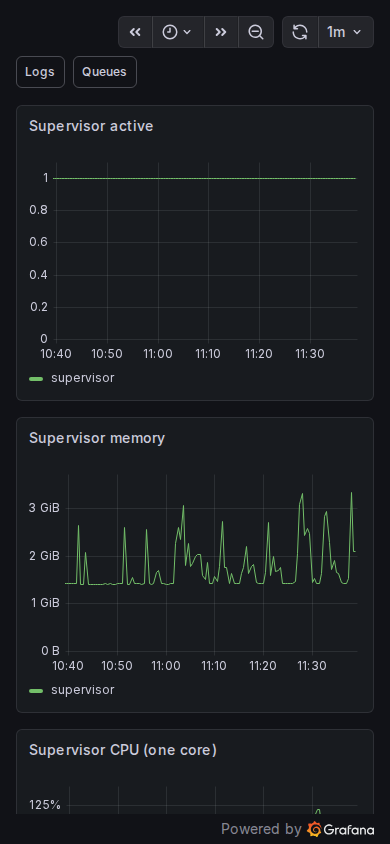
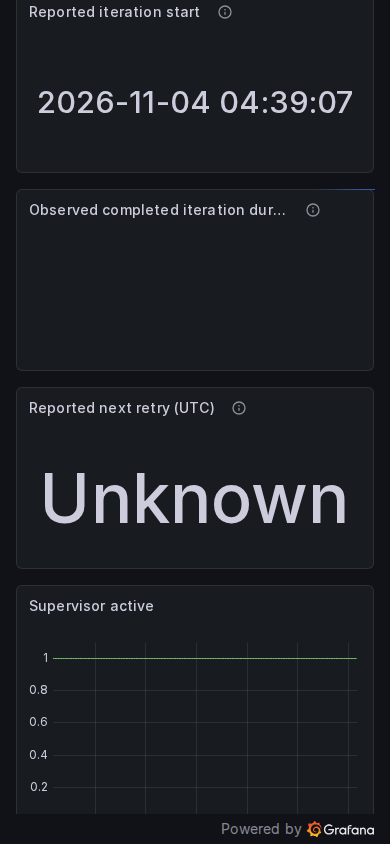
Scroll virtualized Supervisor panels into mobile Grafana verification

diff --git a/scripts/lib/check-grafana.ts b/scripts/lib/check-grafana.ts
@@ -1119,9 +1119,18 @@ export async function checkGrafana() {
       path: 'docs/screenshots/grafana-errors-mobile.png',
     });
     await page.goto(`${base}/d/nd-agent?kiosk`, { waitUntil: 'networkidle' });
-    await page
-      .getByRole('heading', { name: 'Supervisor active', exact: true })
-      .waitFor();
+    // Supervisor panels follow the harness observations and are virtualized
+    // below the mobile viewport. Scroll to mount them before waiting.
+    const supervisorHeading = page.getByRole('heading', {
+      name: 'Supervisor active',
+      exact: true,
+    });
+    for (let attempt = 0; attempt < 22; attempt++) {
+      if (await supervisorHeading.count()) break;
+      await page.mouse.wheel(0, 500);
+      await page.waitForTimeout(300);
+    }
+    await supervisorHeading.scrollIntoViewIfNeeded();
     await page.locator('canvas').first().waitFor({ state: 'visible' });
     assert.equal(
       await page

diff --git a/PROGRESS.md b/PROGRESS.md
@@ -1,12 +1,3 @@
-## 2026-11-04: iteration 542 — report observed triage work per topic
-
-- Started clean on main; no leftover work. Zero alerts, healthy healthz, 36 nonempty successful sources without current errors and zero failed digest jobs. Nov 4 scheduled review remains pending.
-- Added sorted per-topic counts to offline scoring-evidence report, preserving global totals. Includes scoring-only/final-only topics, repeated compatible scores, changed fingerprints, absent items and unscored attempts.
-- Four targeted tests pass; regression verifies all counts reconcile, topic isolation and input-order independence. Synthetic evidence only; no paid calls, production activation or actual waste/latency claim.
-- Updated TASKS/RANKING; archived iteration 523 to keep PROGRESS small. No source/schema/UI or handbook flow changes; no restart under STEERING 22 because running code/config is unchanged.
-- Verification: pnpm format, pnpm lint:fix, pnpm check (350 unit/186 isolated integration), pnpm build, targeted report tests (4/4), git diff --check; root HTTP 200 and healthy healthz, zero dangling Docker volumes.
-- Next: Nov 4 scheduled review first; then gated worker connection and actual scored-work waste evidence.
-
 ## 2026-11-04: iteration 543 — measure longer real triage-pool compatibility
 
 - Started clean on main; no leftovers. Zero alerts, healthy healthz/root, all 36 sources returning nonempty collections; no failed digest jobs. Nov 4 review remains pending.
@@ -167,3 +158,12 @@
 - Verification: pnpm format, pnpm lint:fix, pnpm check (363 unit/193 isolated integration), pnpm build and git diff --check passed; zero dangling Docker volumes. API restarted; healthz and live Status passed.
 - Full check-observability --verify-grafana passed desktop checks then timed out on Agent mobile Supervisor active; follow-up recorded. Final alerts clear; archived iteration 541 to keep PROGRESS small.
 - No paid calls, production feature activation or source changes. Next: prioritize Nov 4 15:00 edition evidence; grouping/incremental triage stay gated.
+
+## 2026-11-04: iteration 561 — finish Grafana mobile verification
+
+- Started clean on main; no leftover work. Healthz passed, 36 healthy sources, zero alerts; recent free-social and Bluesky collection jobs completed. Nov 4 15:00 UTC evidence remains pending.
+- Fixed Agent mobile verification waiting on an unmounted Supervisor panel: bounded scrolling now mounts the virtualized panel before locating it, matching the existing Runtime approach.
+- Full read-only `pnpm exec tsx scripts/check-observability.ts --verify-grafana` passed all ten dashboards and desktop/mobile captures. Inspected and retained Agent mobile screenshot; discarded unrelated screenshot refreshes.
+- Verification: pnpm format, pnpm lint:fix, pnpm check (363 unit/193 isolated integration), pnpm build and git diff --check passed; zero dangling Docker volumes and final alerts clear.
+- Updated TASKS; archived iteration 542 to keep PROGRESS small. No running code/config changed, so no restart under STEERING 22; no paid calls or production activation.
+- Next: prioritize Nov 4 scheduled edition review; grouping/incremental triage remain gated. Repository characterization remains available while waiting.

diff --git a/TASKS.md b/TASKS.md
@@ -61,7 +61,7 @@ Fix failures and stalled sources first. [Completed markers](docs/progress-archiv
 - [ ] STEERING 2a (lower priority): finish repository/HTTP characterization before ORM. Isolated DB/Redis, migrations, HTTP/worker and synthetic-AI goldens implemented (183–270); gaps: [database verification](docs/DATABASE-VERIFICATION.md). Bluesky refresh rollback/retry and exact observation boundaries and 5,000-snapshot cap and concurrent cross-topic refresh and configuration disable/delete races characterized (554–558). Finish 2a before ORM; recorded-response golden open.
 - [ ] STEERING 2b (only after 2a is green): record Drizzle decision/schema parity, back up live DB, gradually replace raw SQL behind ports and enforce boundaries.
 
-- [ ] Full Grafana verification (560): desktop checks pass after viewport fix; Agent mobile times out waiting for Supervisor active. Inspect navigation/scroll state; focused Jobs check passes.
+- [x] Full Grafana verification (561): scroll to mount virtualized Agent mobile Supervisor panels; all ten dashboard checks and desktop/mobile sweep pass. Refreshed Agent mobile screenshot.
 
 - [x] Fix social next-run mismatch (560): Status now reads the earliest recurring schedule, matching metrics; isolated two-schedule regression added.
 

diff --git a/docs/progress-archive/2026-11-04-iteration-542.md b/docs/progress-archive/2026-11-04-iteration-542.md
@@ -1,0 +1,8 @@
+## 2026-11-04: iteration 542 — report observed triage work per topic
+
+- Started clean on main; no leftover work. Zero alerts, healthy healthz, 36 nonempty successful sources without current errors and zero failed digest jobs. Nov 4 scheduled review remains pending.
+- Added sorted per-topic counts to offline scoring-evidence report, preserving global totals. Includes scoring-only/final-only topics, repeated compatible scores, changed fingerprints, absent items and unscored attempts.
+- Four targeted tests pass; regression verifies all counts reconcile, topic isolation and input-order independence. Synthetic evidence only; no paid calls, production activation or actual waste/latency claim.
+- Updated TASKS/RANKING; archived iteration 523 to keep PROGRESS small. No source/schema/UI or handbook flow changes; no restart under STEERING 22 because running code/config is unchanged.
+- Verification: pnpm format, pnpm lint:fix, pnpm check (350 unit/186 isolated integration), pnpm build, targeted report tests (4/4), git diff --check; root HTTP 200 and healthy healthz, zero dangling Docker volumes.
+- Next: Nov 4 scheduled review first; then gated worker connection and actual scored-work waste evidence.
